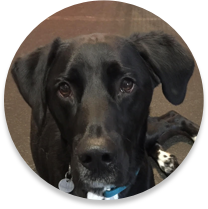
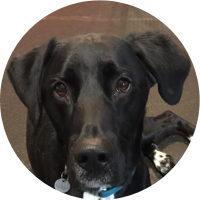
trying to fix the dog dividers
reexported png files to create box shadow with css.

first tried to export svg files but images were blurry, so re-exported
png files. when adding in box shadow it shows on the square image not
the circle portion of the img.

diff --git a/source/index.html b/source/index.html
@@ -246,10 +246,10 @@
                             </td>
                         </tr>
                         <tr>
-                            <td>Facebook</td>
+                            <td><a href="https://www.facebook.com/poetspetparlor/?fref=ts">Facebook</a></td>
                         </tr>
                         <tr>
-                            <td>Instagram</td>
+                            <td><a href="https://www.instagram.com/poets_pet_parlor/">Instagram</a></td>
                         </tr>
                         <tr>
                             <td>Twitter</td>

diff --git a/source/stylesheet.css b/source/stylesheet.css
@@ -165,6 +165,7 @@ section {
 
 .dog-divider {
     margin-bottom: -9vw;
+    box-shadow: 0 2px 2px black;
     height: auto;
     width: 15%;
 }
